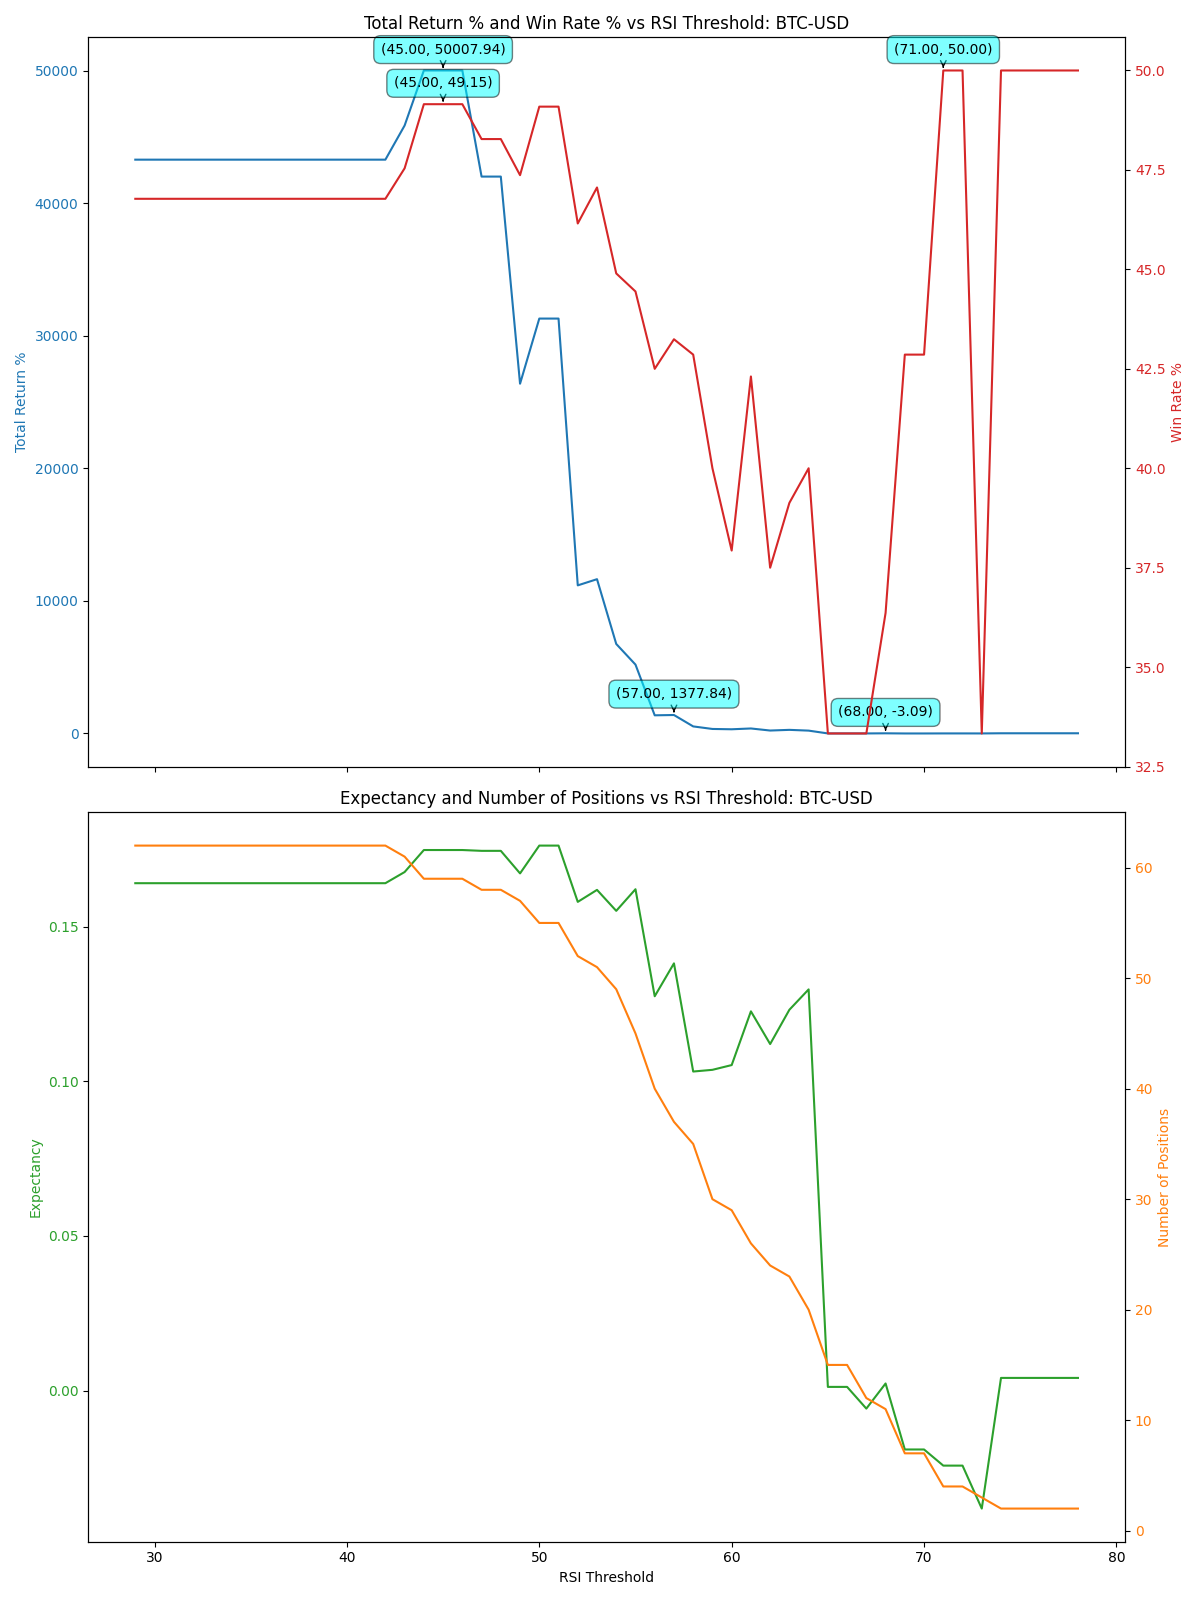
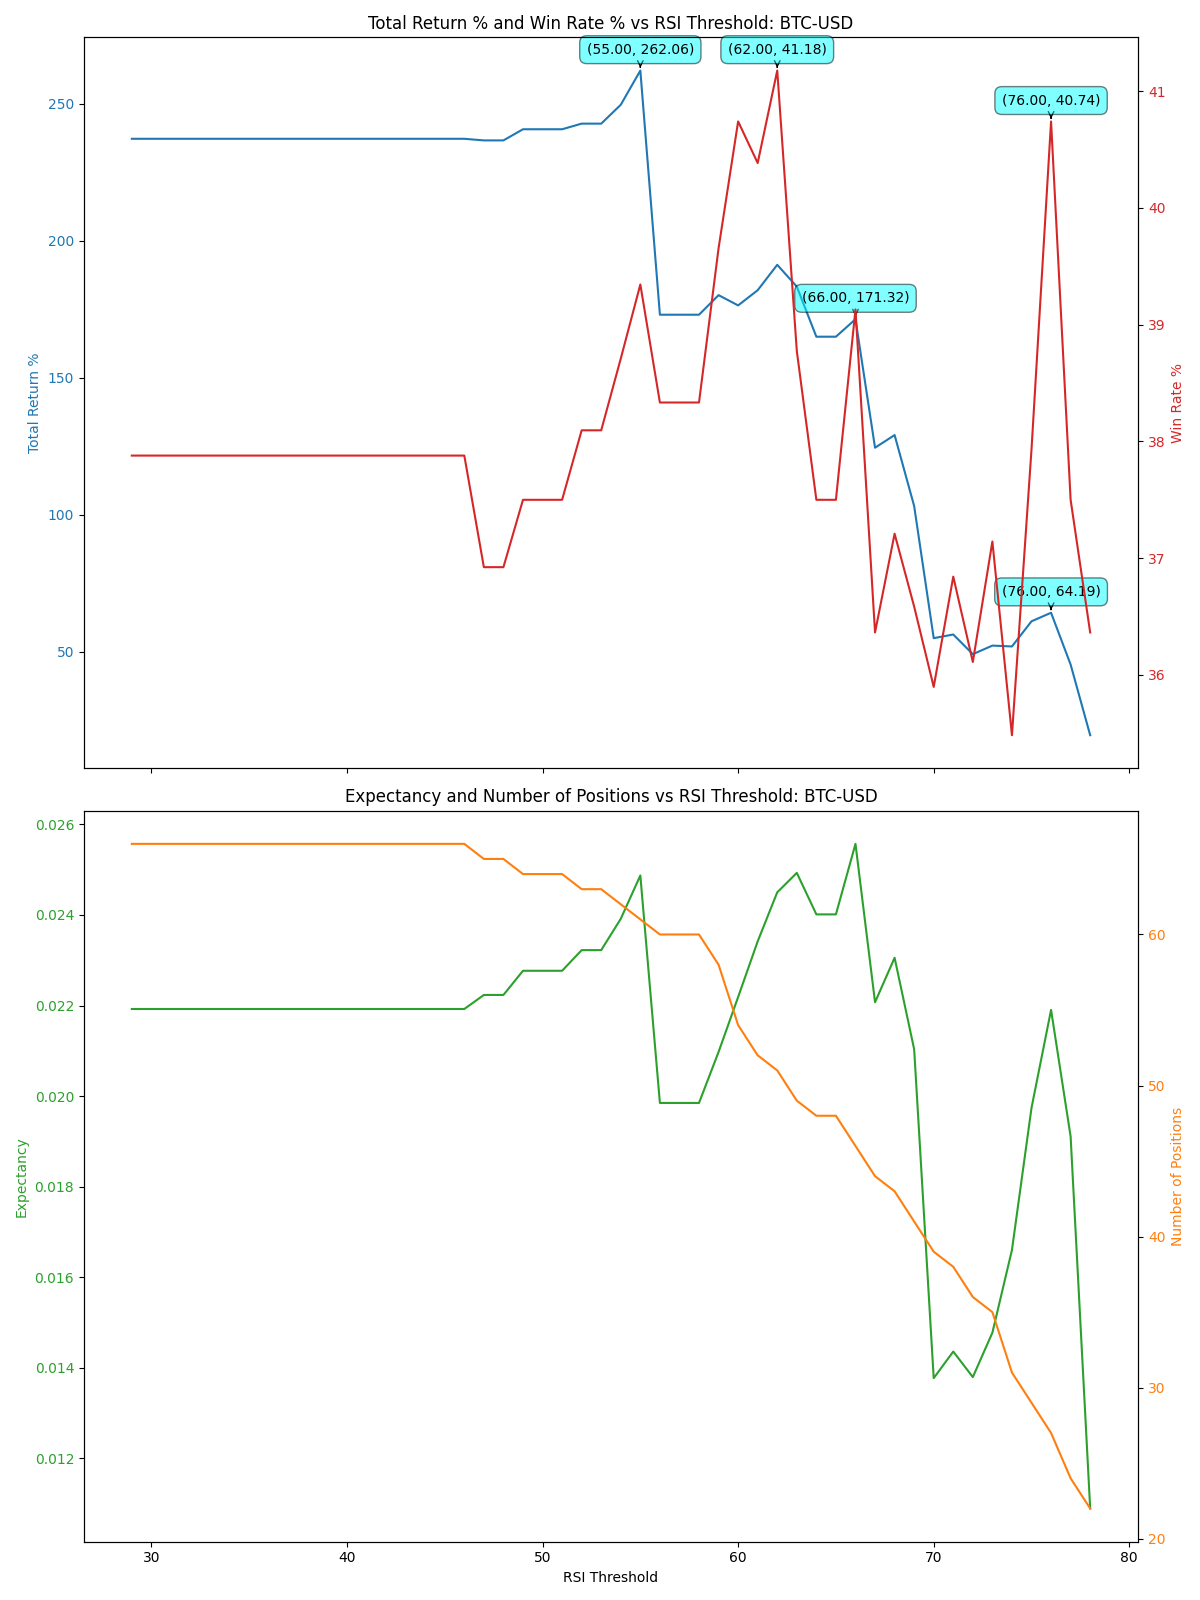
updates

diff --git a/app/ema_cross/1_get_portfolios.py b/app/ema_cross/1_get_portfolios.py
@@ -47,11 +47,10 @@ class Config(TypedDict):
 
 # Default Configuration
 config: Config = {
-    "TICKER": ['BTC-USD', 'ETH-USD'],
-    "WINDOWS": 5,
-    "USE_HOURLY": False,
-    "REFRESH": True,
-    "USE_SMA": False
+    "TICKER": 'SOL-USD',
+    "WINDOWS": 89,
+    "USE_HOURLY": True,
+    "REFRESH": True
 }
 
 def run(config: Config = config) -> bool:
@@ -109,18 +108,13 @@ if __name__ == "__main__":
     try:
         config_copy = config.copy()
         
-        # Check if USE_SMA exists in config
-        if "USE_SMA" not in config_copy:
-            # Run with USE_SMA = False
-            config_copy["USE_SMA"] = False
-            run(config_copy)
-            
-            # Run with USE_SMA = True
-            config_copy["USE_SMA"] = True
-            run(config_copy)
-        else:
-            # Run with existing USE_SMA value
-            run(config_copy)
+        # Run with USE_SMA = False (EMA)
+        config_copy["USE_SMA"] = False
+        run(config_copy)
+        
+        # Run with USE_SMA = True (SMA)
+        config_copy["USE_SMA"] = True
+        run(config_copy)
             
     except Exception as e:
         print(f"Execution failed: {str(e)}")

diff --git a/app/ema_cross/tools/portfolio_processing.py b/app/ema_cross/tools/portfolio_processing.py
@@ -33,7 +33,7 @@ def process_single_ticker(
     config_copy["TICKER"] = ticker
     
     # Construct file path
-    file_name = f'{ticker}{"_H" if config.get("USE_HOURLY_DATA", False) else "_D"}{"_SMA" if config.get("USE_SMA", False) else "_EMA"}'
+    file_name = f'{ticker}{"_H" if config.get("USE_HOURLY", False) else "_D"}{"_SMA" if config.get("USE_SMA", False) else "_EMA"}'
     file_path = f'./csv/ma_cross/portfolios/{file_name}.csv'
 
     log(f"Checking existing portfolio data from {file_path}")

diff --git a/app/ema_cross/2_review_rsi.py b/app/ema_cross/2_review_rsi.py
@@ -55,14 +55,12 @@ class Config(TypedDict):
 
 # Default Configuration
 config: Config = {
-    "TICKER": 'EQR',
-    "SHORT_WINDOW": 33,
-    "LONG_WINDOW": 42,
+    "TICKER": 'BTC-USD',
+    "SHORT_WINDOW": 65,
+    "LONG_WINDOW": 74,
     "RSI_PERIOD": 14,
-    "USE_HOURLY": False,
-    "USE_SMA": False,
-    "USE_RSI": False,
-    "RSI_THRESHOLD": 58
+    "USE_HOURLY": True,
+    "USE_SMA": False
 }
 
 def setup_logging_for_rsi() -> Tuple[Callable, Callable, Callable, object]:

diff --git a/app/ema_cross/1_get_heatmaps.py b/app/ema_cross/1_get_heatmaps.py
@@ -52,9 +52,9 @@ class Config(TypedDict):
 
 # Default Configuration
 config: Config = {
-    "USE_CURRENT": True,
-    "USE_SMA": True,
-    "TICKER": 'CME',
+    "USE_CURRENT": False,
+    "USE_SMA": False,
+    "TICKER": 'BTC-USD',
     "TICKER_1": 'BTC-USD',
     "TICKER_2": 'BTC-USD',
     "WINDOWS": 89,
